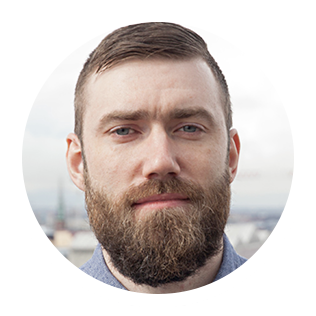
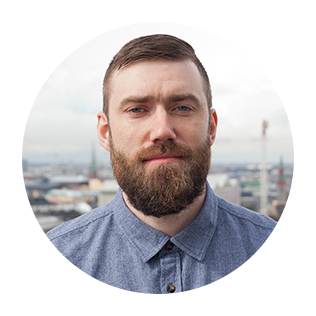
Photo update and small text correction
Ivan's photo and 20 workshops not 12

diff --git a/chilicorn-fund/case-ylitse.html b/chilicorn-fund/case-ylitse.html
@@ -49,7 +49,7 @@ custom_js:
       <p />
       <p>
       Children and young people who have been customers of the foster care are vulnerable also later in their lives. Studies prove that they are at high risk of remaining at a low level of education, unemployed, socially supported. They also have a high risk of mental health and substance abuse problems, and overall high mortality rate (low lifetime expectancy). They very rarely have tightly-knit support network from the family and close ones.</p>
-      <p>After a series of 12 workshops with young adults grown in foster care, Katarina and Oskari had gained a good grasp on the types of problems they face in early adulthood and the type of support they need. 
+      <p>After a series of 20 workshops with young adults grown in foster care, Katarina and Oskari had gained a good grasp on the types of problems they face in early adulthood and the type of support they need. 
       Peer support and being able to get help regardless of the time and place have been identified as important elements. Because of this, Katarina and Oskari were interested in a digital service to both directly support this target group and provide a channel for peer support.
       </p>
       <p>There were still many open questions though. What should the service be, exactly? Would the target group find it? Would they see its value? Would they use it? Even if they used it, would the peer support help people efficiently enough to prevent the multi-generational need for child protection?</p>
